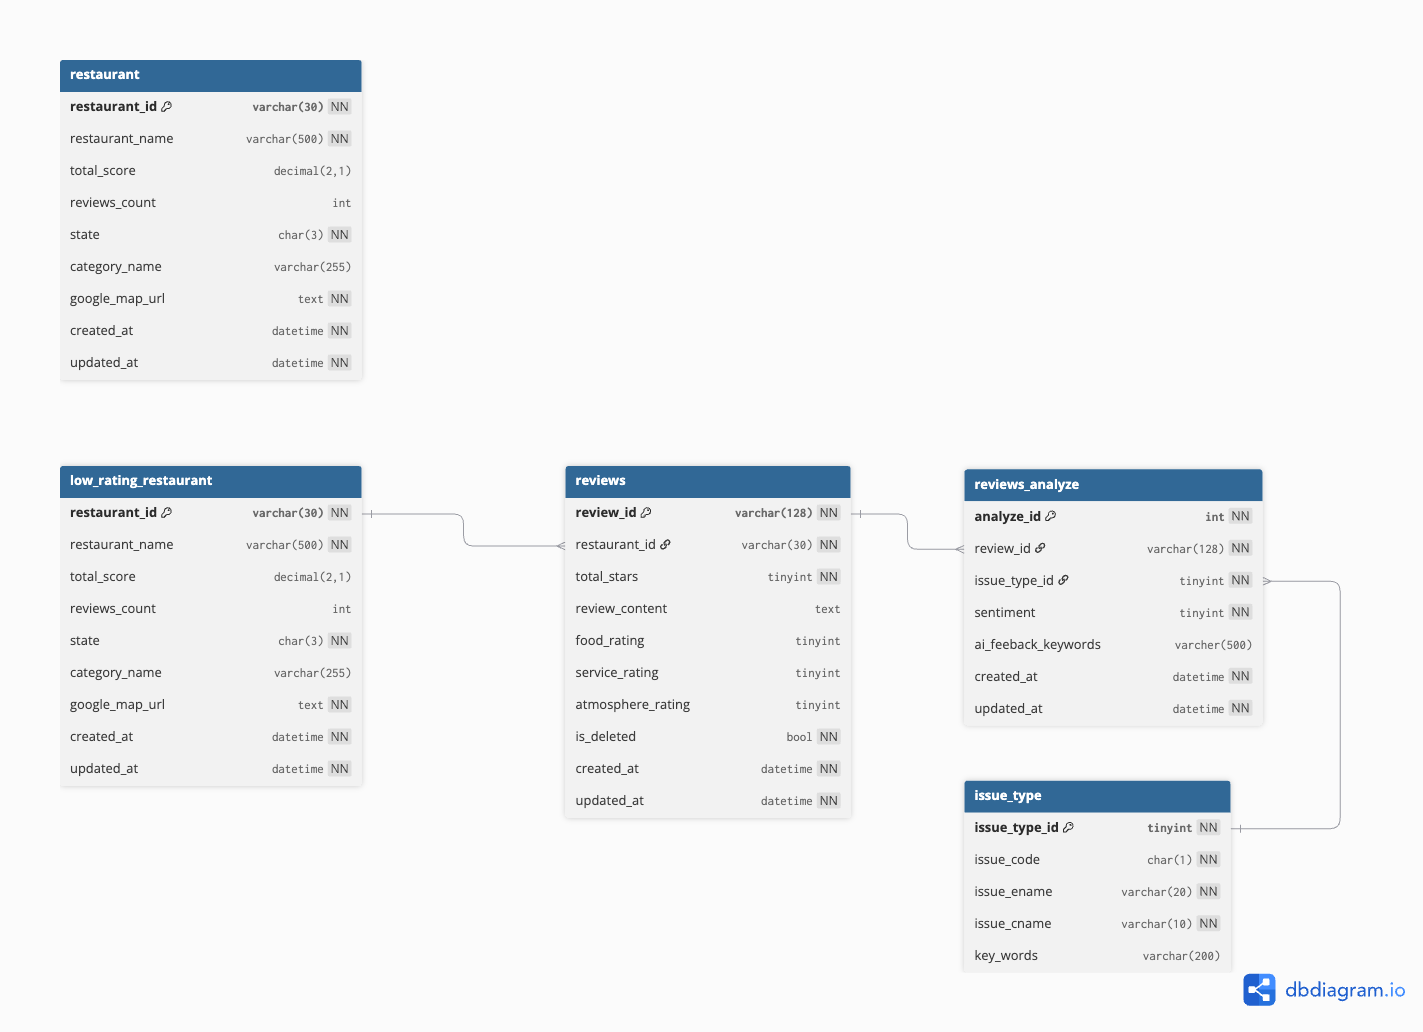
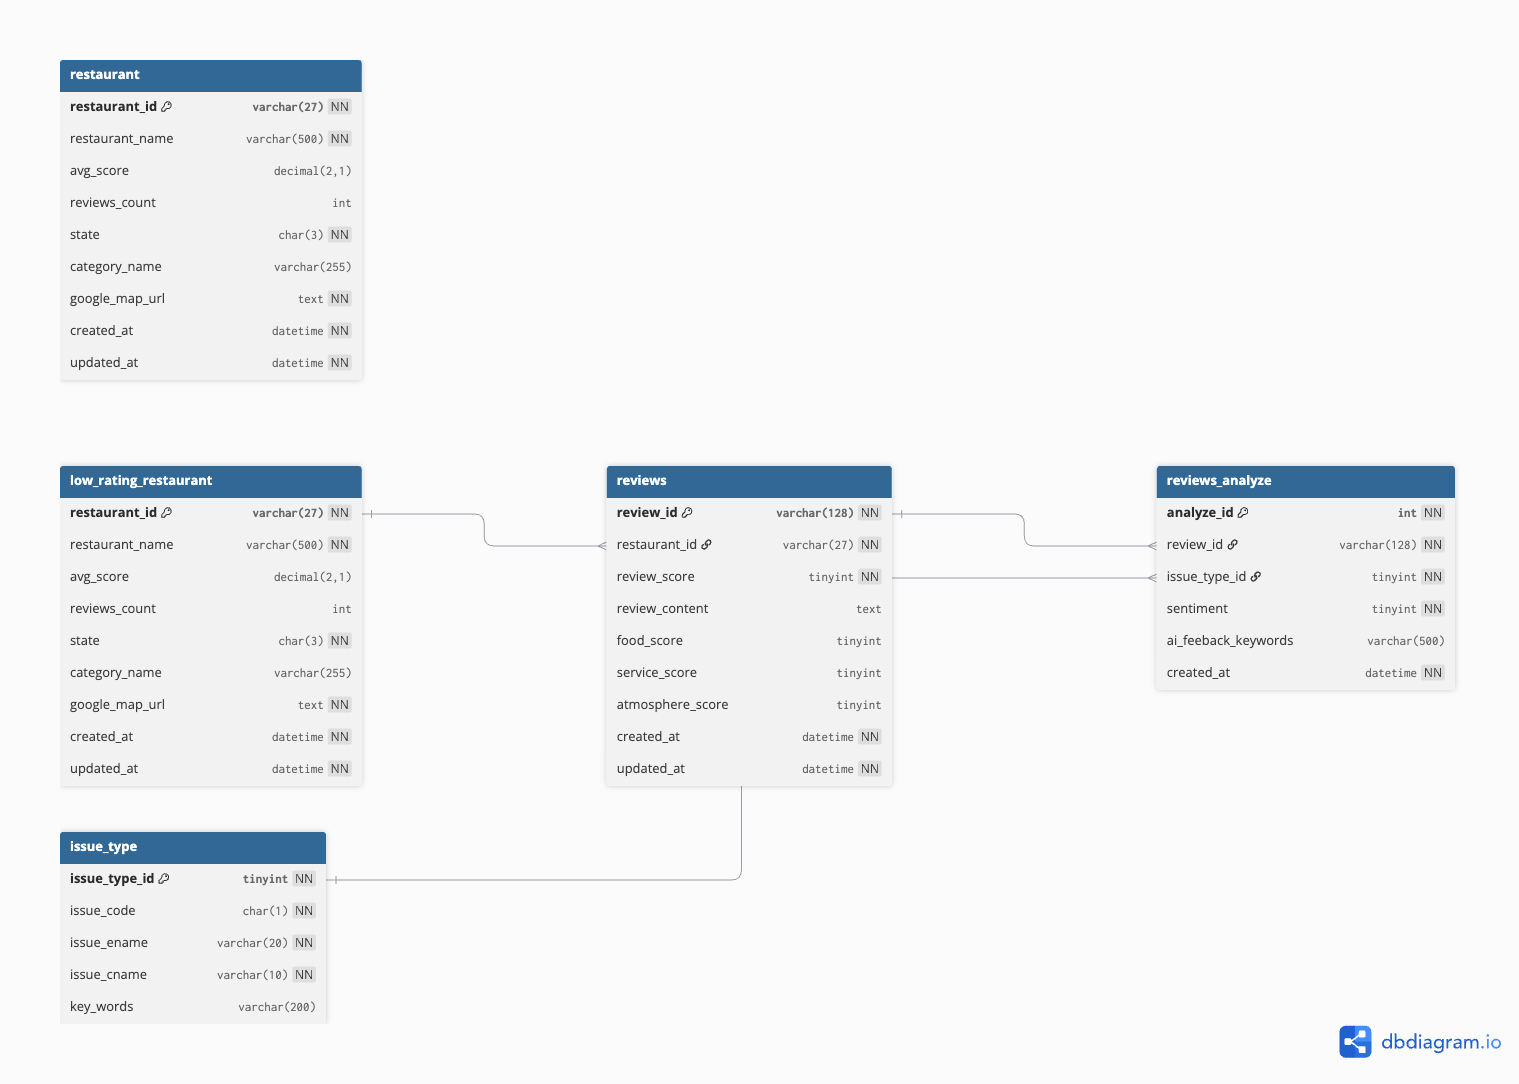
調整資料表欄位

diff --git a/src/etl/insert_restaurant.py b/src/etl/insert_restaurant.py
@@ -47,7 +47,7 @@ for file_path in json_files:
         # 擷取對應欄位
         restaurant_id = item.get('placeId')
         restaurant_name = item.get('title')
-        total_score = item.get('totalScore')
+        avg_score = item.get('totalScore')
         reviews_count = item.get('reviewsCount')
         
         # 處理行政區欄位
@@ -80,7 +80,7 @@ for file_path in json_files:
             record = (
                 clean_id,
                 str(restaurant_name).strip(),
-                float(total_score) if total_score is not None else None,
+                float(avg_score) if avg_score is not None else None,
                 int(reviews_count) if reviews_count is not None else None,
                 str(state).strip(),
                 str(category_name)[:10].strip() if category_name else None,
@@ -112,7 +112,7 @@ print("="*50)
 #     # 擷取對應欄位
 #     restaurant_id = item.get('placeId')
 #     restaurant_name = item.get('title')
-#     total_score = item.get('totalScore')
+#     avg_score = item.get('totalScore')
 #     reviews_count = item.get('reviewsCount')
     
 #     # 處理行政區欄位
@@ -123,7 +123,7 @@ print("="*50)
 #     google_map_url = item.get('url')
     
 #     # 將解析好的欄位打包成一個 tuple，順序要跟後面的 SQL 語法一致
-#     record = (restaurant_id, restaurant_name, total_score, reviews_count, state, category_name, google_map_url)
+#     record = (restaurant_id, restaurant_name, avg_score, reviews_count, state, category_name, google_map_url)
 #     insert_data_list.append(record)
 
 # # 3. 連線至 MySQL 並寫入資料
@@ -143,7 +143,7 @@ print("="*50)
 #         # 使用 %s 作為預留位置，PyMySQL 會自動幫你處理特殊字元，避免 SQL Injection
 #         sql = """
 #         INSERT INTO restaurant
-#         (restaurant_id, restaurant_name, total_score, reviews_count, state, category_name, google_map_url) 
+#         (restaurant_id, restaurant_name, avg_score, reviews_count, state, category_name, google_map_url) 
 #         VALUES (%s, %s, %s, %s, %s, %s, %s)
 #         """
         
@@ -189,7 +189,7 @@ try:
         # 使用 %s 作為預留位置，PyMySQL 會自動幫你處理特殊字元，避免 SQL Injection
         sql = """
         INSERT INTO restaurant
-        (restaurant_id, restaurant_name, total_score, reviews_count, state, category_name, google_map_url) 
+        (restaurant_id, restaurant_name, avg_score, reviews_count, state, category_name, google_map_url) 
         VALUES (%s, %s, %s, %s, %s, %s, %s)
         """
         

diff --git a/src/etl/insert_low_restaurant.py b/src/etl/insert_low_restaurant.py
@@ -25,7 +25,7 @@ sql = '''
 	from 
 	restaurant
 	where 
-	total_score < 3.8
+	avg_score <= 3.5
     and reviews_count >= 100
 
 '''